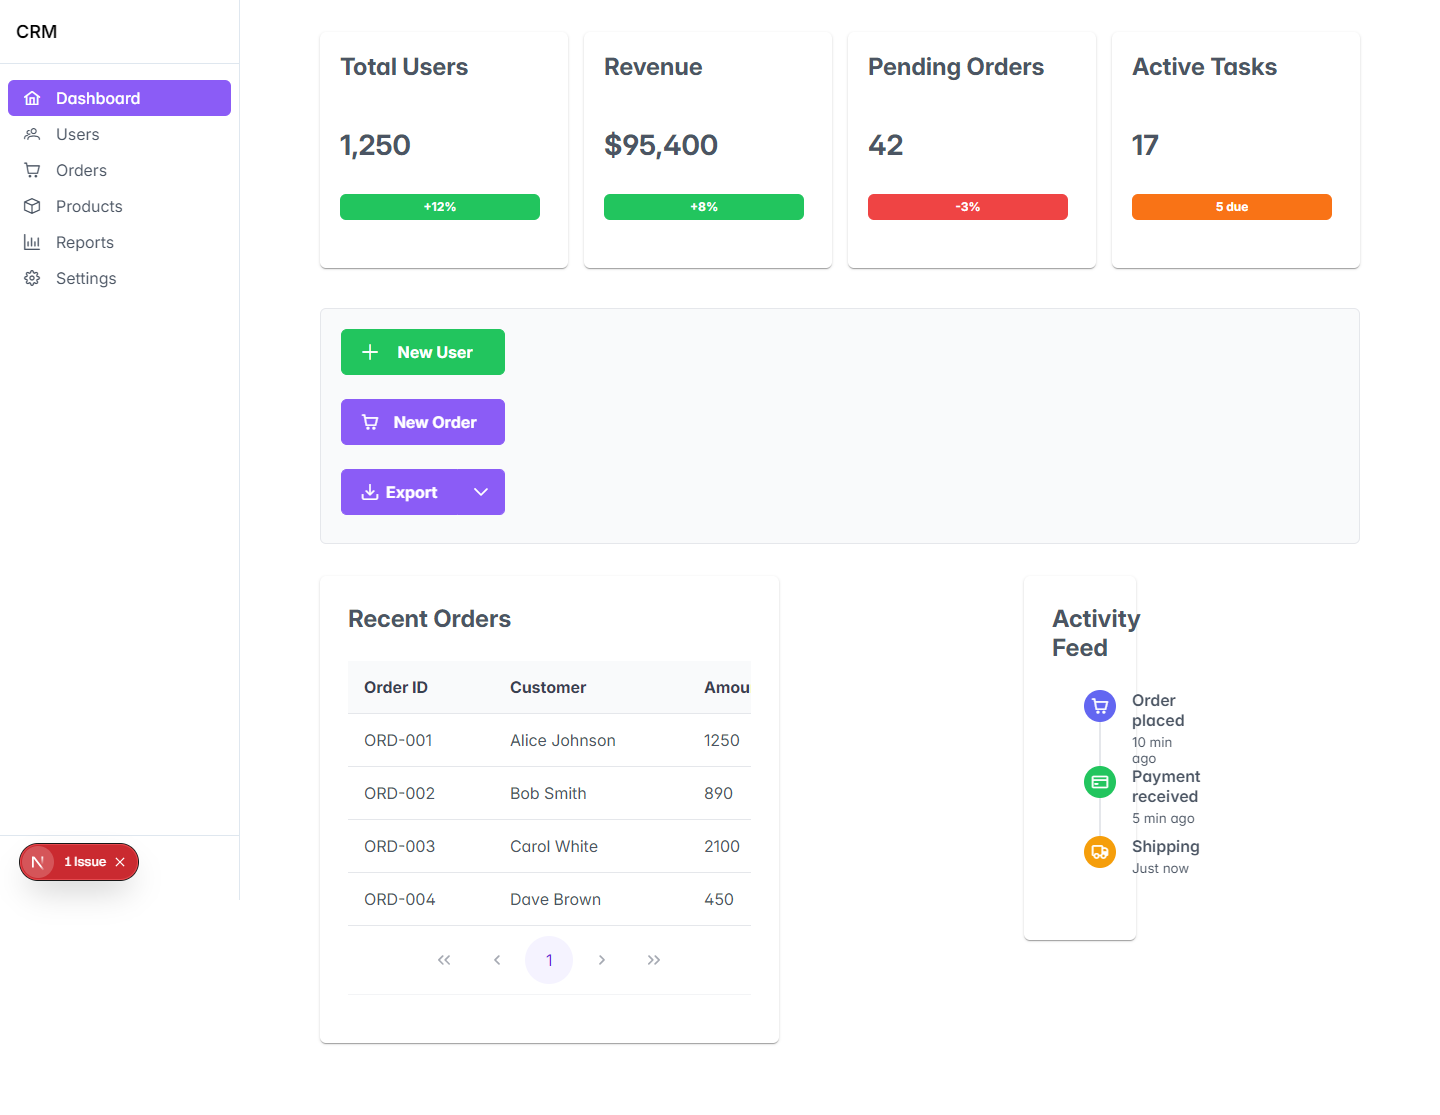
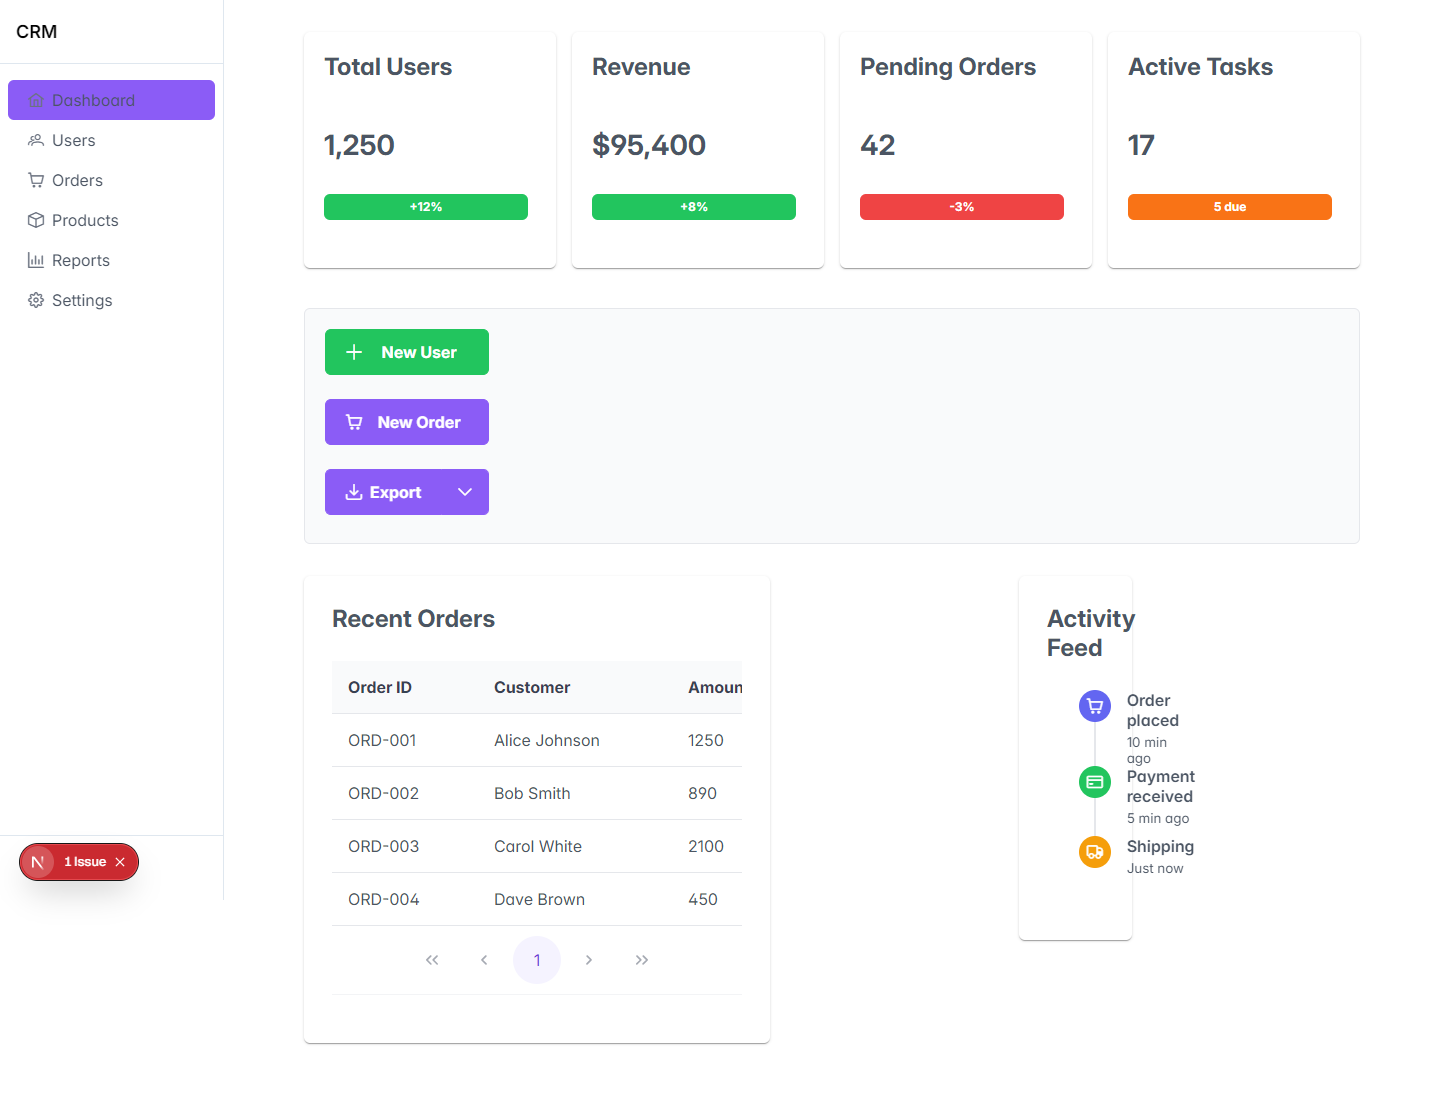
refactor: minimalist DashboardSidebar with pure PrimeReact

diff --git a/src/engine/DashboardSidebar.tsx b/src/engine/DashboardSidebar.tsx
@@ -1,136 +1,90 @@
 "use client";
 
-import React, { useState, useEffect, useCallback } from "react";
+import React, { useState, useCallback } from "react";
 import { useRouter, usePathname } from "next/navigation";
 import { NavItem } from "@/types";
-import { Sidebar } from "primereact/sidebar";
 import { Menu } from "primereact/menu";
+import { Sidebar } from "primereact/sidebar";
 import { Button } from "primereact/button";
 
-/** Рендерит пункт меню с подсветкой активного */
-function NavMenuItem({ item, active }: { item: NavItem; active: boolean }) {
-  const { label, icon, route } = item;
-  return (
-    <div
-      className={`flex align-items-center gap-3 px-3 py-2 border-round-md cursor-pointer transition-all ${
-        active ? "font-medium" : "text-500 hover:surface-hover"
-      }`}
-      style={
-        active
-          ? {
-              background: "var(--primary-color)",
-              color: "var(--primary-color-text)",
-            }
-          : undefined
-      }
-    >
-      <i className={icon}></i>
-      <span className="overflow-hidden text-ellipsis white-space-nowrap">
-        {label}
-      </span>
-    </div>
-  );
+function buildMenuItems(
+  items: NavItem[],
+  pathname: string,
+  onNavigate: (route: string) => void,
+) {
+  return items.map((item) => {
+    const active = pathname === item.route;
+    return {
+      label: item.label,
+      icon: item.icon,
+      command: () => onNavigate(item.route),
+      className: active ? "sidebar-menu-active" : "",
+      style: active
+        ? {
+            background: "var(--primary-color)",
+            color: "var(--primary-color-text)",
+            borderRadius: "6px",
+          }
+        : undefined,
+    };
+  });
 }
 
 export function DashboardSidebar({ items }: { items: NavItem[] }) {
   const router = useRouter();
   const pathname = usePathname() || "/";
-
   const [collapsed, setCollapsed] = useState(false);
-  const [mobileVisible, setMobileVisible] = useState(false);
-
-  useEffect(() => {
-    const handleResize = () => {
-      if (window.innerWidth >= 768) {
-        setMobileVisible(false);
-      }
-    };
-    window.addEventListener("resize", handleResize);
-    return () => window.removeEventListener("resize", handleResize);
-  }, []);
-
-  const isActive = useCallback(
-    (route: string) => pathname === route,
-    [pathname],
-  );
+  const [mobileOpen, setMobileOpen] = useState(false);
 
   const handleNav = useCallback(
     (route: string) => {
-      setMobileVisible(false);
+      setMobileOpen(false);
       router.push(route);
     },
     [router],
   );
 
-  // Build menu items with custom template per item
-  const menuItems = items.map((item) => ({
-    label: item.label,
-    icon: item.icon,
-    command: () => handleNav(item.route),
-    template: (
-      <div onClick={() => handleNav(item.route)}>
-        <NavMenuItem item={item} active={isActive(item.route)} />
-      </div>
-    ),
-  }));
+  const menuItems = buildMenuItems(items, pathname, handleNav);
 
   return (
     <>
       {/* Mobile hamburger */}
-      <div className="md:hidden fixed top-3 left-3 z-5">
-        <Button
-          icon="pi pi-bars"
-          className="p-button-rounded p-button-text p-button-secondary"
-          onClick={() => setMobileVisible(true)}
-          aria-label="Open menu"
-        />
-      </div>
+      <Button
+        icon="pi pi-bars"
+        className="p-button-rounded p-button-text p-button-secondary md:hidden fixed top-3 left-3 z-5"
+        onClick={() => setMobileOpen(true)}
+        aria-label="Menu"
+      />
 
-      {/* Mobile sidebar using PrimeReact Sidebar + Menu */}
+      {/* Mobile sidebar */}
       <Sidebar
-        visible={mobileVisible}
-        onHide={() => setMobileVisible(false)}
+        visible={mobileOpen}
+        onHide={() => setMobileOpen(false)}
         position="left"
-        baseZIndex={1000}
-        showCloseIcon={false}
-        className="w-18rem"
+        className="w-16rem"
       >
-        <div className="flex align-items-center justify-content-between mb-3">
-          <h3 className="text-xl font-semibold m-0">Menu</h3>
-          <Button
-            icon="pi pi-times"
-            className="p-button-rounded p-button-text p-button-sm"
-            onClick={() => setMobileVisible(false)}
-          />
-        </div>
-        <Menu
-          model={menuItems}
-          className="border-none w-full"
-          style={{ background: "transparent" }}
-        />
+        <Menu model={menuItems} className="border-none w-full" />
       </Sidebar>
 
       {/* Desktop sidebar */}
       <aside
-        className={`hidden md:flex flex-column h-screen surface-overlay transition-all transition-duration-300 sticky top-0 ${
-          collapsed ? "w-4rem" : "w-15rem"
+        className={`hidden md:flex flex-column h-screen surface-overlay sticky top-0 transition-all transition-duration-300 ${
+          collapsed ? "w-4rem" : "w-14rem"
         }`}
         style={{ borderRight: "1px solid var(--surface-border)" }}
       >
-        {/* Logo */}
         <div
           className="flex align-items-center h-4rem px-3"
           style={{ borderBottom: "1px solid var(--surface-border)" }}
         >
           {!collapsed && (
-            <span className="text-lg font-semibold overflow-hidden text-ellipsis white-space-nowrap">
+            <span className="font-semibold text-lg overflow-hidden text-ellipsis white-space-nowrap">
               CRM
             </span>
           )}
         </div>
 
-        {/* Navigation using PrimeReact Menu */}
-        <div className="flex-1 py-2 overflow-y-auto overflow-x-hidden px-2">
+        <div className="flex-1 overflow-y-auto px-2 py-2">
           <Menu
             model={menuItems}
             className="border-none w-full"
@@ -138,7 +92,6 @@ export function DashboardSidebar({ items }: { items: NavItem[] }) {
           />
         </div>
 
-        {/* Collapse button */}
         <div
           className="p-2"
           style={{ borderTop: "1px solid var(--surface-border)" }}
@@ -149,7 +102,6 @@ export function DashboardSidebar({ items }: { items: NavItem[] }) {
             }
             className="p-button-text p-button-sm p-button-rounded w-full"
             onClick={() => setCollapsed(!collapsed)}
-            title={collapsed ? "Expand sidebar" : "Collapse sidebar"}
           />
         </div>
       </aside>
